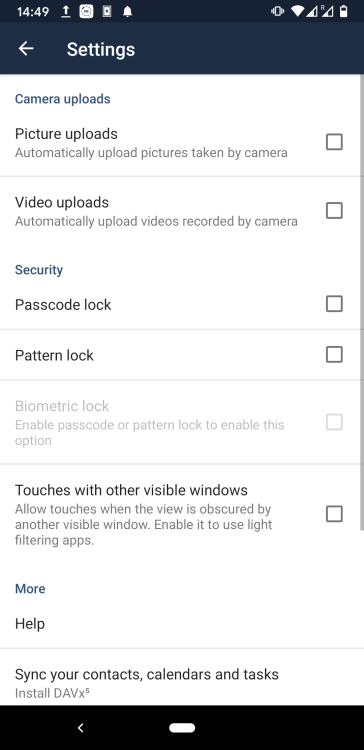
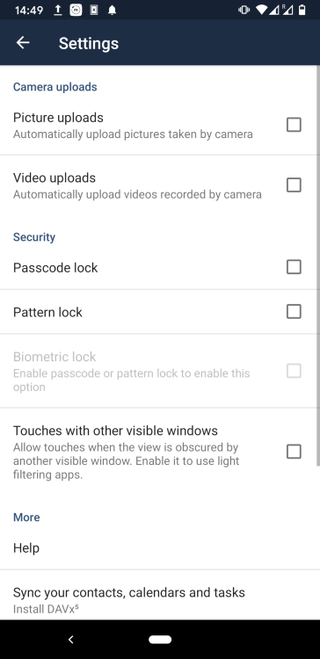
fixed some images

diff --git a/content/post/2020/07/owncloud-tutorial-part-4.md b/content/post/2020/07/owncloud-tutorial-part-4.md
@@ -6,7 +6,6 @@ featured: false # Sets if post is a featured post, making appear on the home pag
 toc: false # Controls if a table of contents should be generated for first-level links automatically.
 codeMaxLines: 10 # Override global value for how many lines within a code block before auto-collapsing.
 codeLineNumbers: false # Override global value for showing of line numbers within code block.
-figurePositionShow: true # Override global value for showing the figure label.
 categories:
   - Tutorial
 series:
@@ -22,27 +21,27 @@ Users can access and synchronize their personal data stored within the ownCloud 
 ## Dektop clients
 Desktop clients are available for [Mac Os](https://owncloud.org/download/#owncloud-desktop-client-macos), [Windows](https://owncloud.org/download/#owncloud-desktop-client-windows) and [Linux](https://owncloud.org/download/#owncloud-desktop-client-linux)
 
-1. Once you installed the client, you will be presented with the **onwCloud Connection Wizard**. Enter your server details and click **Next**:
+1. Once you installed the client, you will be presented with the **onwCloud Connection Wizard**. Enter your server details and click **Next**:\
 ![Conn Wiz 1](/post/2020/07/img/04-conn-wiz-01.png)
 
-2. Now type your **Username** and **Password** and press **Next**:
+2. Now type your **Username** and **Password** and press **Next**:\
 ![Conn Wiz 2](/post/2020/07/img/04-conn-wiz-02.png)
 
-3. Customize your settings and click **Connect...**
+3. Customize your settings and click **Connect...**:\
 ![Conn Wiz 2](/post/2020/07/img/04-conn-wiz-03.png)
 
-4. As soon as the first synchronization task completes, you can close the active window.
+4. As soon as the first synchronization task completes, you can close the active window.\
 ![Conn Wiz 2](/post/2020/07/img/04-conn-wiz-04.png)
 
 
 ## Mobile Apps
 Mobile Apps are available for [iOS and Android](https://owncloud.org/download/#owncloud-mobile-apps).
 
-1. Once installed, open the App and type your server address `http://owncloud_ip:8080`
+1. Once installed, open the App and type your server address `http://owncloud_ip:8080`:\
 ![Mobile 1](/post/2020/07/img/04-mobile-01.png)
 
 2. Enter your login details and tap on **LOG IN**
 
-3. Select **Settings** to choose your synchronization preferences:
+3. Select **Settings** to choose your synchronization preferences:\
 ![Mobile 3](/post/2020/07/img/04-mobile-03.png)
 

diff --git a/content/post/2020/07/owncloud-tutorial-part-3.md b/content/post/2020/07/owncloud-tutorial-part-3.md
@@ -6,7 +6,6 @@ featured: false # Sets if post is a featured post, making appear on the home pag
 toc: false # Controls if a table of contents should be generated for first-level links automatically.
 codeMaxLines: 10 # Override global value for how many lines within a code block before auto-collapsing.
 codeLineNumbers: false # Override global value for showing of line numbers within code block.
-figurePositionShow: true # Override global value for showing the figure label.
 categories:
   - Tutorial
 series:
@@ -19,10 +18,10 @@ tags:
 
 # Adding Users
 1. Login to the web interface with your **Admin** credentials;
-2. On the top right corner, select **admin** and chose **Users**
+2. On the top right corner, select **admin** and chose **Users**:
 ![Users](/post/2020/07/img/03-new-users-01.png)
-3. Add the user's details
+3. Add the user's details:
 ![Add users](/post/2020/07/img/03-new-users-02.png)
-4. Once created, from this pane you can set a temporary **password** for the user and change its full name or leave it for him/her to complete.
+4. Once created, from this pane you can set a temporary **password** for the user and change its full name or leave it for him/her to complete:
 ![Change users details](/post/2020/07/img/03-new-users-03.png)
 

diff --git a/content/post/2020/07/owncloud-tutorial-part-2.md b/content/post/2020/07/owncloud-tutorial-part-2.md
@@ -6,7 +6,6 @@ featured: false # Sets if post is a featured post, making appear on the home pag
 toc: true # Controls if a table of contents should be generated for first-level links automatically.
 codeMaxLines: 10 # Override global value for how many lines within a code block before auto-collapsing.
 codeLineNumbers: false # Override global value for showing of line numbers within code block.
-figurePositionShow: true # Override global value for showing the figure label.
 categories:
   - Tutorial
 series:

diff --git a/content/post/2020/07/owncloud-tutorial-part-1.md b/content/post/2020/07/owncloud-tutorial-part-1.md
@@ -6,7 +6,6 @@ featured: false
 toc: true
 codeMaxLines: 10
 codeLineNumbers: false
-figurePositionShow: true
 categories:
 - Tutorial
 series:
